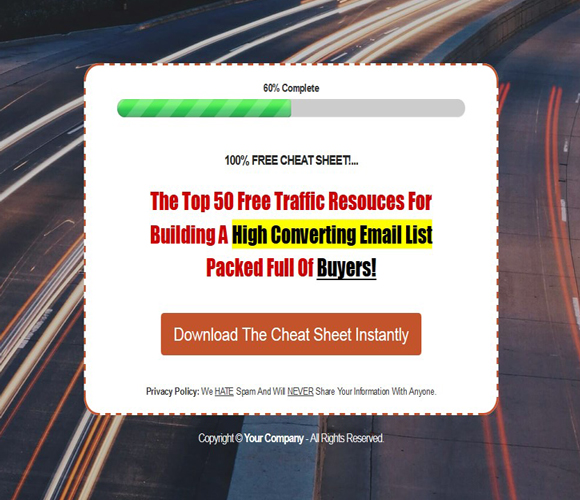
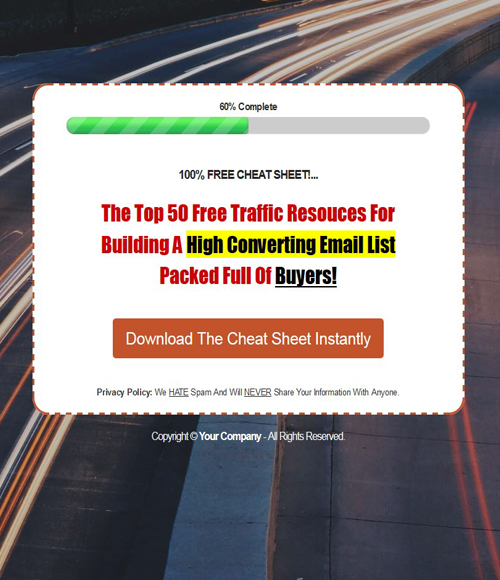
update builder templates.

diff --git a/aem/manage/templates/classic/new_custom_campaign.htm b/aem/manage/templates/classic/new_custom_campaign.htm
@@ -492,7 +492,7 @@ Once you choose a template, you will be redirected to the Drag 'N' Drop Site Bui
 						<div class="accordion_group optin grid_item col-xs-4">
 							<div class="template_wrapper">
 								<span class="text_center template_title">Optin 6</span>
-								<img src="images/glc-optin7.jpg" alt="Optin 6" class="img-thumbnail">
+								<img src="images/glc-optin6.jpg" alt="Optin 6" class="img-thumbnail">
 								<div class="template_buttons">
 								  	<a href="http://sitebuilder.glchub.com/sites/create/281" class="btn btn-primary btn-choose buildertemplate" target="_blank">CHOOSE</a>
 								  	<a href="http://sitebuilder.glchub.com/site/1c7e859aae" class="btn btn-demo" target="_blank">DEMO</a>
